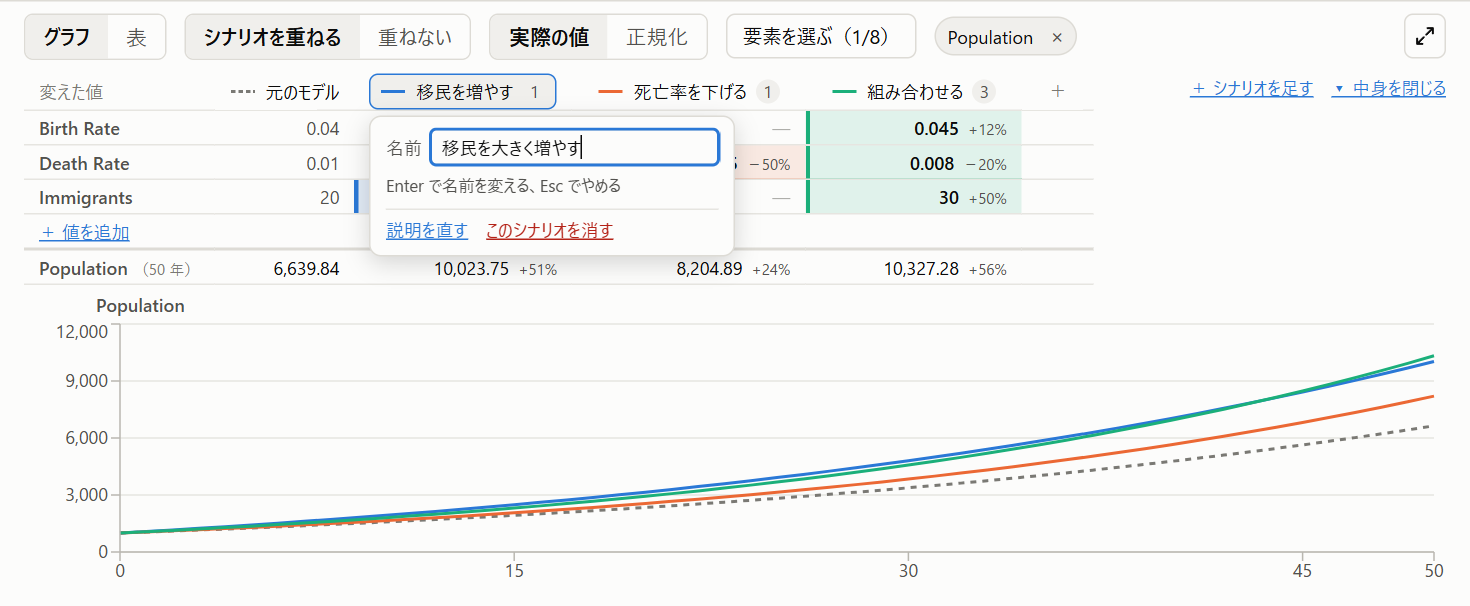
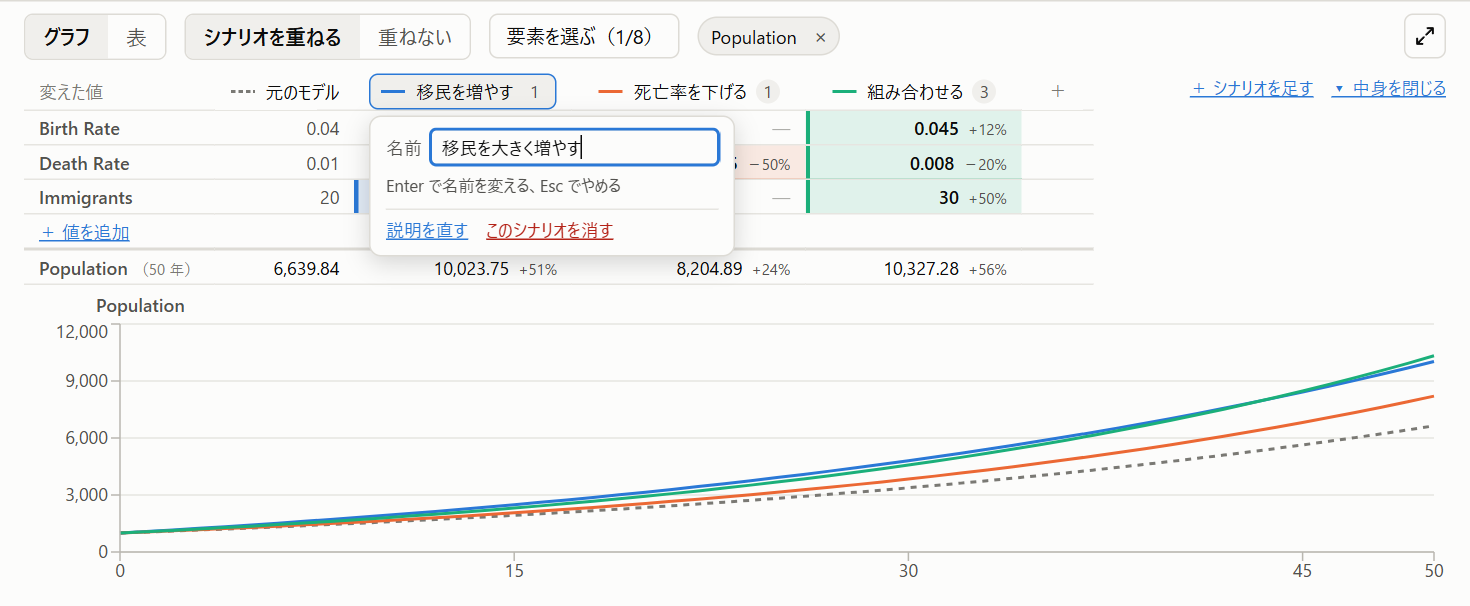
グラフの正規化の機能を削除する (#20) (#25)
ほとんど使っていない縦軸の「実際の値／正規化」の切り替えを消し、グラフはいつも実際の値で描く。web/src/normalize.ts とそのテスト、文書の正規化の説明と画像、撮影スクリプトの正規化の場面を消し、切り替えが写っていたスクリーンショットを撮り直した。

Changed region(s): [[0.3367, 0.0, 0.6122, 0.1188], [0.6429, 0.0594, 0.7041, 0.0891]]

diff --git a/web/src/Chart.tsx b/web/src/Chart.tsx
@@ -3,7 +3,6 @@ import { CartesianGrid, Line, LineChart, ResponsiveContainer, Tooltip, XAxis, YA
 import type { ActualDataResult, ModelJSON, RunResult, ScenarioPatch, ScenarioRunResult } from "../../src/viewer/api.js";
 import { sameTime, withActualPoints } from "./actualPoints.js";
 import { renamedName } from "./editing.js";
-import { normalize, normalizeLike, normalizeTogether } from "./normalize.js";
 import {
   addableValues,
   BASELINE_NAME,
@@ -85,31 +84,7 @@ function assignSlots(visible: string[], prev: Map<string, number>): Map<string, 
 /** 線の色の割り当てを、名前を変えたあとの名前にする */
 const renamedKeys = (slots: Map<string, number>, renamed: [string, string][]) => new Map([...slots].map(([n, slot]) => [renamedName(n, renamed), slot]));
 
-/**
- * 縦軸の決め方。
- * - value: 値そのまま
- * - normalized: 要素ごとに、最小を 0%、最大を 100% にそろえる。大きさの違う要素の、増え方や減り方の形を比べるため
- */
-type Scale = "value" | "normalized";
-const SCALE_KEY = "viewer.chartScale";
-function loadScale(): Scale {
-  try {
-    return localStorage.getItem(SCALE_KEY) === "normalized" ? "normalized" : "value";
-  } catch {
-    return "value";
-  }
-}
-function saveScale(scale: Scale) {
-  try {
-    localStorage.setItem(SCALE_KEY, scale);
-  } catch {
-    // 覚えられなくても動く
-  }
-}
-
-const formatPercent = (v: number) => `${Math.round(v * 100)}%`;
-
-/** シナリオの凡例を開いて、シナリオの中身の表にしているか（縦軸と同じく、ブラウザに覚えておく） */
+/** シナリオの凡例を開いて、シナリオの中身の表にしているか（ブラウザに覚えておく） */
 const MATRIX_KEY = "viewer.scenarioMatrix";
 function loadMatrixOpen(): boolean {
   try {
@@ -197,7 +172,6 @@ export function Chart({
   const visible = useMemo(() => (renamed?.length ? chosen.map((n) => renamedName(n, renamed)) : chosen), [chosen, renamed]);
   const slots = useMemo(() => (renamed?.length ? renamedKeys(chosenSlots, renamed) : chosenSlots), [chosenSlots, renamed]);
   const [view, setView] = useState<"chart" | "table">("chart");
-  const [scale, setScaleState] = useState<Scale>(loadScale);
   // シナリオを重ねるか。シナリオが保存されていれば、はじめは重ねる
   const [overlay, setOverlay] = useState(true);
   const compare = useMemo(() => compareRuns(run, scenarios ?? [], MAX_SERIES), [run, scenarios]);
@@ -245,10 +219,6 @@ export function Chart({
   // 図に知らせる。知らせる先が変わったり、グラフが消えたりしたら、前の先には「外した」と知らせる
   useEffect(() => onHoverTime?.(hoverTime), [hoverTime, onHoverTime]);
   useEffect(() => () => onHoverTime?.(undefined), [onHoverTime]);
-  const setScale = (s: Scale) => {
-    setScaleState(s);
-    saveScale(s);
-  };
 
   // 別のモデルを開いたら選び直す。同じモデルの更新では、名前の変わった要素は新しい名前にし、消えた要素だけ外す
   const [shownModel, setShownModel] = useState(modelName);
@@ -295,27 +265,25 @@ export function Chart({
 
   // Recharts の dataKey は「.」を入れ子のパスとして読むので、要素名ではなく番号で持つ
   const keyOf = (name: string) => `s${names.indexOf(name)}`;
-  // 行には時刻と行の番号（i）を持たせる。ツールチップは正規化していても、番号から元の値を出す
+  // 行には時刻と行の番号（i）を持たせる。ツールチップは番号から元の値を出す
   const data = useMemo(() => {
-    const series = new Map(visible.map((n) => [n, scale === "normalized" ? normalize(run.series[n] ?? []) : (run.series[n] ?? [])]));
     return run.times.map((t, i) => {
       const row: Record<string, number | null> = { t, i };
-      for (const n of visible) row[keyOf(n)] = series.get(n)?.[i] ?? null;
+      for (const n of visible) row[keyOf(n)] = run.series[n]?.[i] ?? null;
       return row;
     });
-  }, [run, visible, names, scale]); // eslint-disable-line react-hooks/exhaustive-deps
-  // 実際のデータの点。モデルの線と同じ行に入れる。正規化するときはモデルの線と同じ目盛りにする
+  }, [run, visible, names]); // eslint-disable-line react-hooks/exhaustive-deps
+  // 実際のデータの点。モデルの線と同じ行に入れる
   const actualKeyOf = (name: string) => `a${names.indexOf(name)}`;
   const withActual = useMemo(() => {
     const points = new Map<string, { t: number; v: number }[]>();
     for (const n of visible) {
       const values = actual?.series[n];
       if (!values) continue;
-      const scaled = scale === "normalized" ? normalizeLike(values, run.series[n] ?? []) : values;
-      points.set(actualKeyOf(n), actual!.times.flatMap((t, i) => (scaled[i] == null ? [] : [{ t, v: scaled[i]! }])));
+      points.set(actualKeyOf(n), actual!.times.flatMap((t, i) => (values[i] == null ? [] : [{ t, v: values[i]! }])));
     }
     return { rows: withActualPoints(data, points, visible.map(keyOf)), names: visible.filter((n) => points.has(actualKeyOf(n))) };
-  }, [data, actual, run, visible, names, scale]); // eslint-disable-line react-hooks/exhaustive-deps
+  }, [data, actual, visible, names]); // eslint-disable-line react-hooks/exhaustive-deps
   const unit = TIME_UNIT_LABEL[run.time_units.toLowerCase()] ?? run.time_units;
   const colorOf = (name: string) => `var(${SLOTS[slots.get(name) ?? 0]})`;
 
@@ -373,32 +341,6 @@ export function Chart({
             ＋ シナリオを足す
           </button>
         )}
-        {view === "chart" && (
-          <div className="segmented" role="radiogroup" aria-label="縦軸">
-            <button
-              role="radio"
-              aria-checked={scale === "value"}
-              className={scale === "value" ? "on" : ""}
-              onClick={() => setScale("value")}
-              title="値をそのまま出します"
-            >
-              実際の値
-            </button>
-            <button
-              role="radio"
-              aria-checked={scale === "normalized"}
-              className={scale === "normalized" ? "on" : ""}
-              onClick={() => setScale("normalized")}
-              title={
-                comparing
-                  ? "要素ごとに、どのシナリオも通した最小を 0%、最大を 100% にそろえます"
-                  : "要素ごとに、最小を 0%、最大を 100% にそろえます。大きさの違う要素の、変わり方の形を比べられます"
-              }
-            >
-              正規化
-            </button>
-          </div>
-        )}
         <SeriesPicker candidates={candidates} visible={visible} colorOf={colorOf} plain={comparing} onToggle={toggle} />
         {/* 凡例を兼ねる。出している要素だけを色つきで出し、× で外せる。シナリオを重ねているときの色はシナリオのものなので、要素には色を付けない */}
         <ul className="series-legend" aria-label="表示している要素">
@@ -442,7 +384,7 @@ export function Chart({
       ) : comparing && view === "chart" ? (
         <div className="compare-grid">
           {visible.map((n) => (
-            <CompareChart key={n} name={n} times={run.times} runs={compare.runs} unit={unit} scale={scale} actual={actual} onHover={setHoverTime} />
+            <CompareChart key={n} name={n} times={run.times} runs={compare.runs} unit={unit} actual={actual} onHover={setHoverTime} />
           ))}
         </div>
       ) : comparing ? (
@@ -496,7 +438,7 @@ export function Chart({
                 label={{ value: `時間（${unit}）`, position: "insideBottomRight", offset: -4, fill: "var(--text-secondary)", fontSize: 12 }}
                 height={36}
               />
-              {yAxis(scale)}
+              {yAxis()}
               <Tooltip
                 cursor={{ stroke: "var(--text-muted)", strokeWidth: 1 }}
                 content={(p: TooltipContentProps) => <ChartTooltip {...p} unit={unit} visible={visible} run={run} actual={actual} colorOf={colorOf} />}
@@ -561,20 +503,9 @@ export function Chart({
   );
 }
 
-/** 縦軸。正規化しているときは 0%〜100% */
-function yAxis(scale: Scale) {
-  return scale === "normalized" ? (
-    <YAxis
-      domain={[0, 1]}
-      ticks={[0, 0.25, 0.5, 0.75, 1]}
-      tick={{ fill: "var(--text-secondary)", fontSize: 12 }}
-      stroke="var(--axis)"
-      tickFormatter={formatPercent}
-      width={72}
-    />
-  ) : (
-    <YAxis tick={{ fill: "var(--text-secondary)", fontSize: 12 }} stroke="var(--axis)" tickFormatter={(v: number) => formatValue(v)} width={72} />
-  );
+/** 縦軸 */
+function yAxis() {
+  return <YAxis tick={{ fill: "var(--text-secondary)", fontSize: 12 }} stroke="var(--axis)" tickFormatter={(v: number) => formatValue(v)} width={72} />;
 }
 
 /** シナリオの中身の表で、はじめから出す「変えた値」の行の数。超えたぶんは畳んで「ほか N 件」で開く */
@@ -1548,7 +1479,6 @@ const CompareChart = memo(function CompareChart({
   times,
   runs,
   unit,
-  scale,
   actual,
   onHover,
 }: {
@@ -1556,15 +1486,13 @@ const CompareChart = memo(function CompareChart({
   times: number[];
   runs: CompareRun[];
   unit: string;
-  scale: Scale;
   actual?: ActualDataResult;
   onHover(t: number | undefined): void;
 }) {
-  // 行には時刻と行の番号（i）を持たせる。ツールチップは正規化していても、番号から元の値を出す
-  // 実際のデータの点も同じ行に入れる（キーは a）。正規化するときは、どのシナリオも通した最小と最大を目盛りにする
+  // 行には時刻と行の番号（i）を持たせる。ツールチップは番号から元の値を出す
+  // 実際のデータの点も同じ行に入れる（キーは a）
   const data = useMemo(() => {
-    const raw = runs.map((r) => r.series[name] ?? []);
-    const series = scale === "normalized" ? normalizeTogether(raw) : raw;
+    const series = runs.map((r) => r.series[name] ?? []);
     const rows = times.map((t, i) => {
       const row: Record<string, number | null> = { t, i };
       series.forEach((values, k) => (row[`r${k}`] = values[i] ?? null));
@@ -1572,10 +1500,9 @@ const CompareChart = memo(function CompareChart({
     });
     const values = actual?.series[name];
     if (!values) return rows;
-    const scaled = scale === "normalized" ? normalizeLike(values, raw.flat()) : values;
-    const points = actual!.times.flatMap((t, i) => (scaled[i] == null ? [] : [{ t, v: scaled[i]! }]));
+    const points = actual!.times.flatMap((t, i) => (values[i] == null ? [] : [{ t, v: values[i]! }]));
     return withActualPoints(rows, new Map([["a", points]]), runs.map((_, k) => `r${k}`));
-  }, [name, times, runs, scale, actual]);
+  }, [name, times, runs, actual]);
   return (
     <figure className="compare-cell">
       <figcaption title={name}>{name}</figcaption>
@@ -1597,7 +1524,7 @@ const CompareChart = memo(function CompareChart({
               stroke="var(--axis)"
               height={24}
             />
-            {yAxis(scale)}
+            {yAxis()}
             <Tooltip
               cursor={{ stroke: "var(--text-muted)", strokeWidth: 1 }}
               content={(p: TooltipContentProps) => <CompareTooltip {...p} unit={unit} name={name} runs={runs} actual={actual} />}
@@ -1638,7 +1565,7 @@ const CompareChart = memo(function CompareChart({
   );
 });
 
-/** シナリオを重ねたグラフのツールチップ。正規化していても実際の値を出す */
+/** シナリオを重ねたグラフのツールチップ */
 function CompareTooltip(p: TooltipContentProps & { unit: string; name: string; runs: CompareRun[]; actual?: ActualDataResult }) {
   if (!p.active || !p.payload?.length) return null;
   const row = p.payload[0]!.payload as Record<string, number | null>;

diff --git a/tests/viewer-actual-points.test.ts b/tests/viewer-actual-points.test.ts
@@ -1,6 +1,5 @@
 import { describe, expect, test } from "vitest";
 import { sameTime, withActualPoints } from "../web/src/actualPoints.js";
-import { normalizeLike } from "../web/src/normalize.js";
 
 const rows = () => [
   { t: 0, i: 0, s0: 100 },
@@ -36,9 +35,5 @@ describe("実際のデータの点をグラフの行に入れる", () => {
   test("刻みの小数の誤差は同じ時刻とみなす", () => {
     expect(sameTime(0.1 + 0.2, 0.3)).toBe(true);
     expect(sameTime(0.3, 0.31)).toBe(false);
-  });
-
-  test("正規化するときは、モデルの線の最小と最大を目盛りにする", () => {
-    expect(normalizeLike([150, null, 50], [100, 200])).toEqual([0.5, null, -0.5]);
   });
 });
